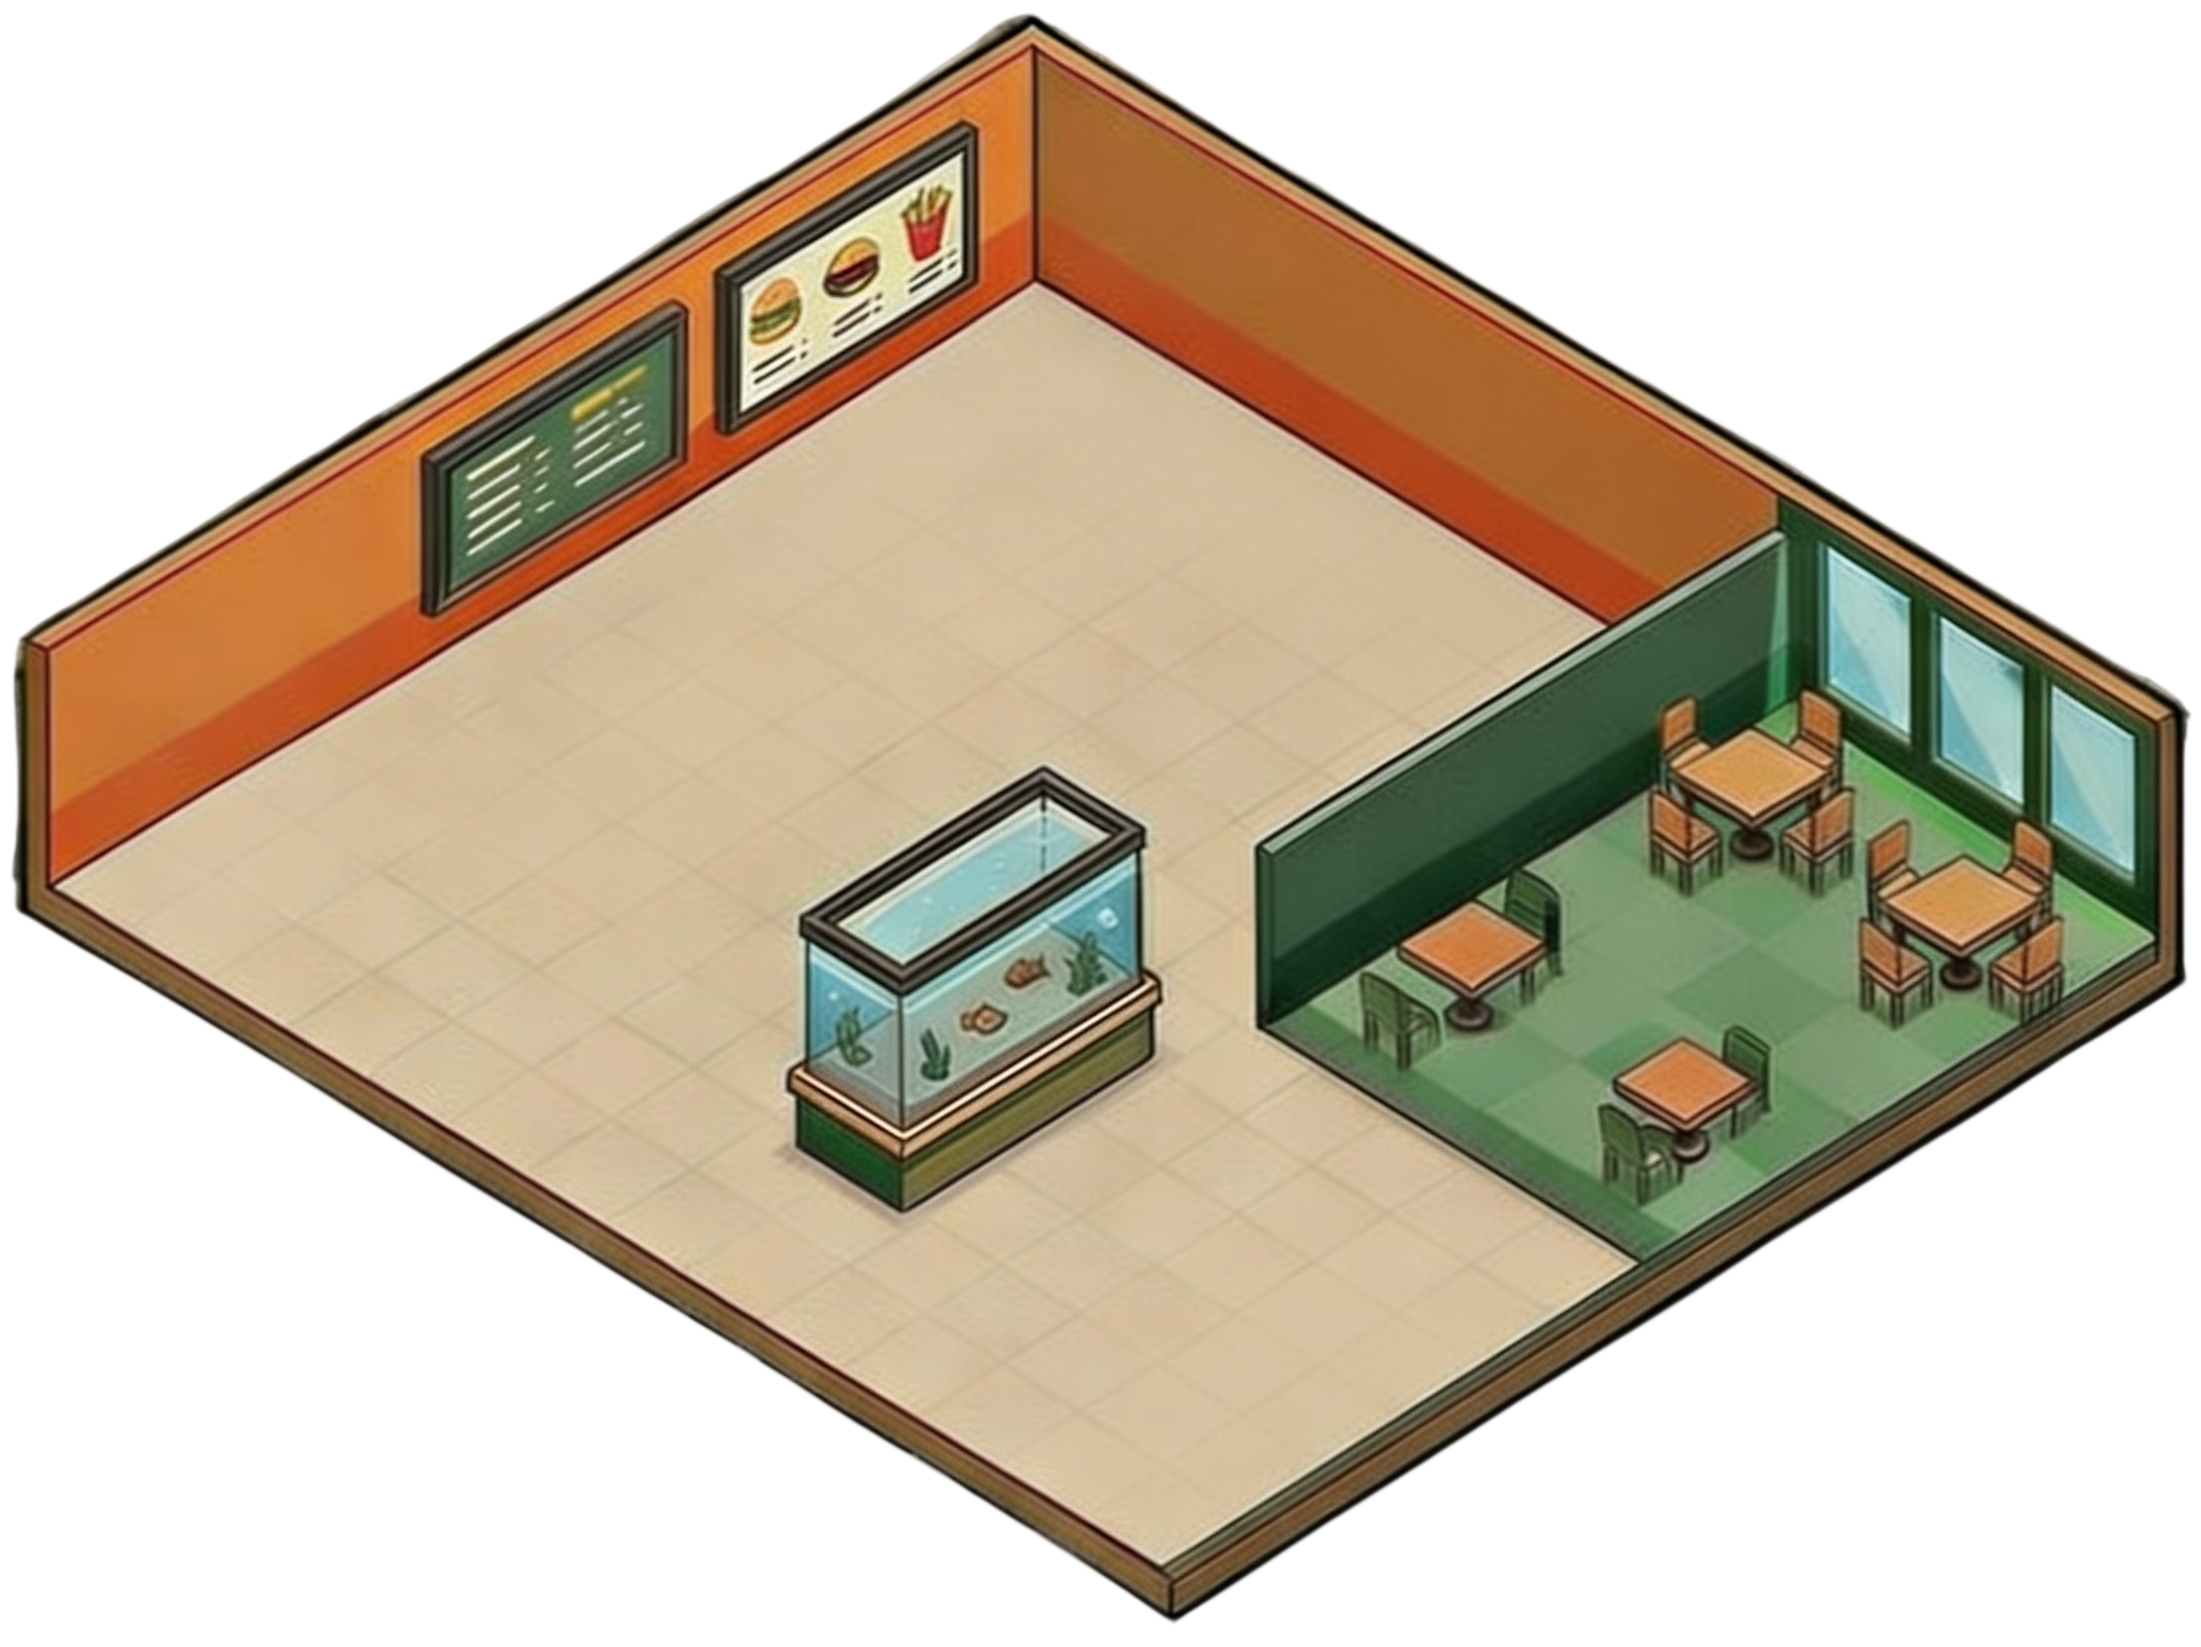
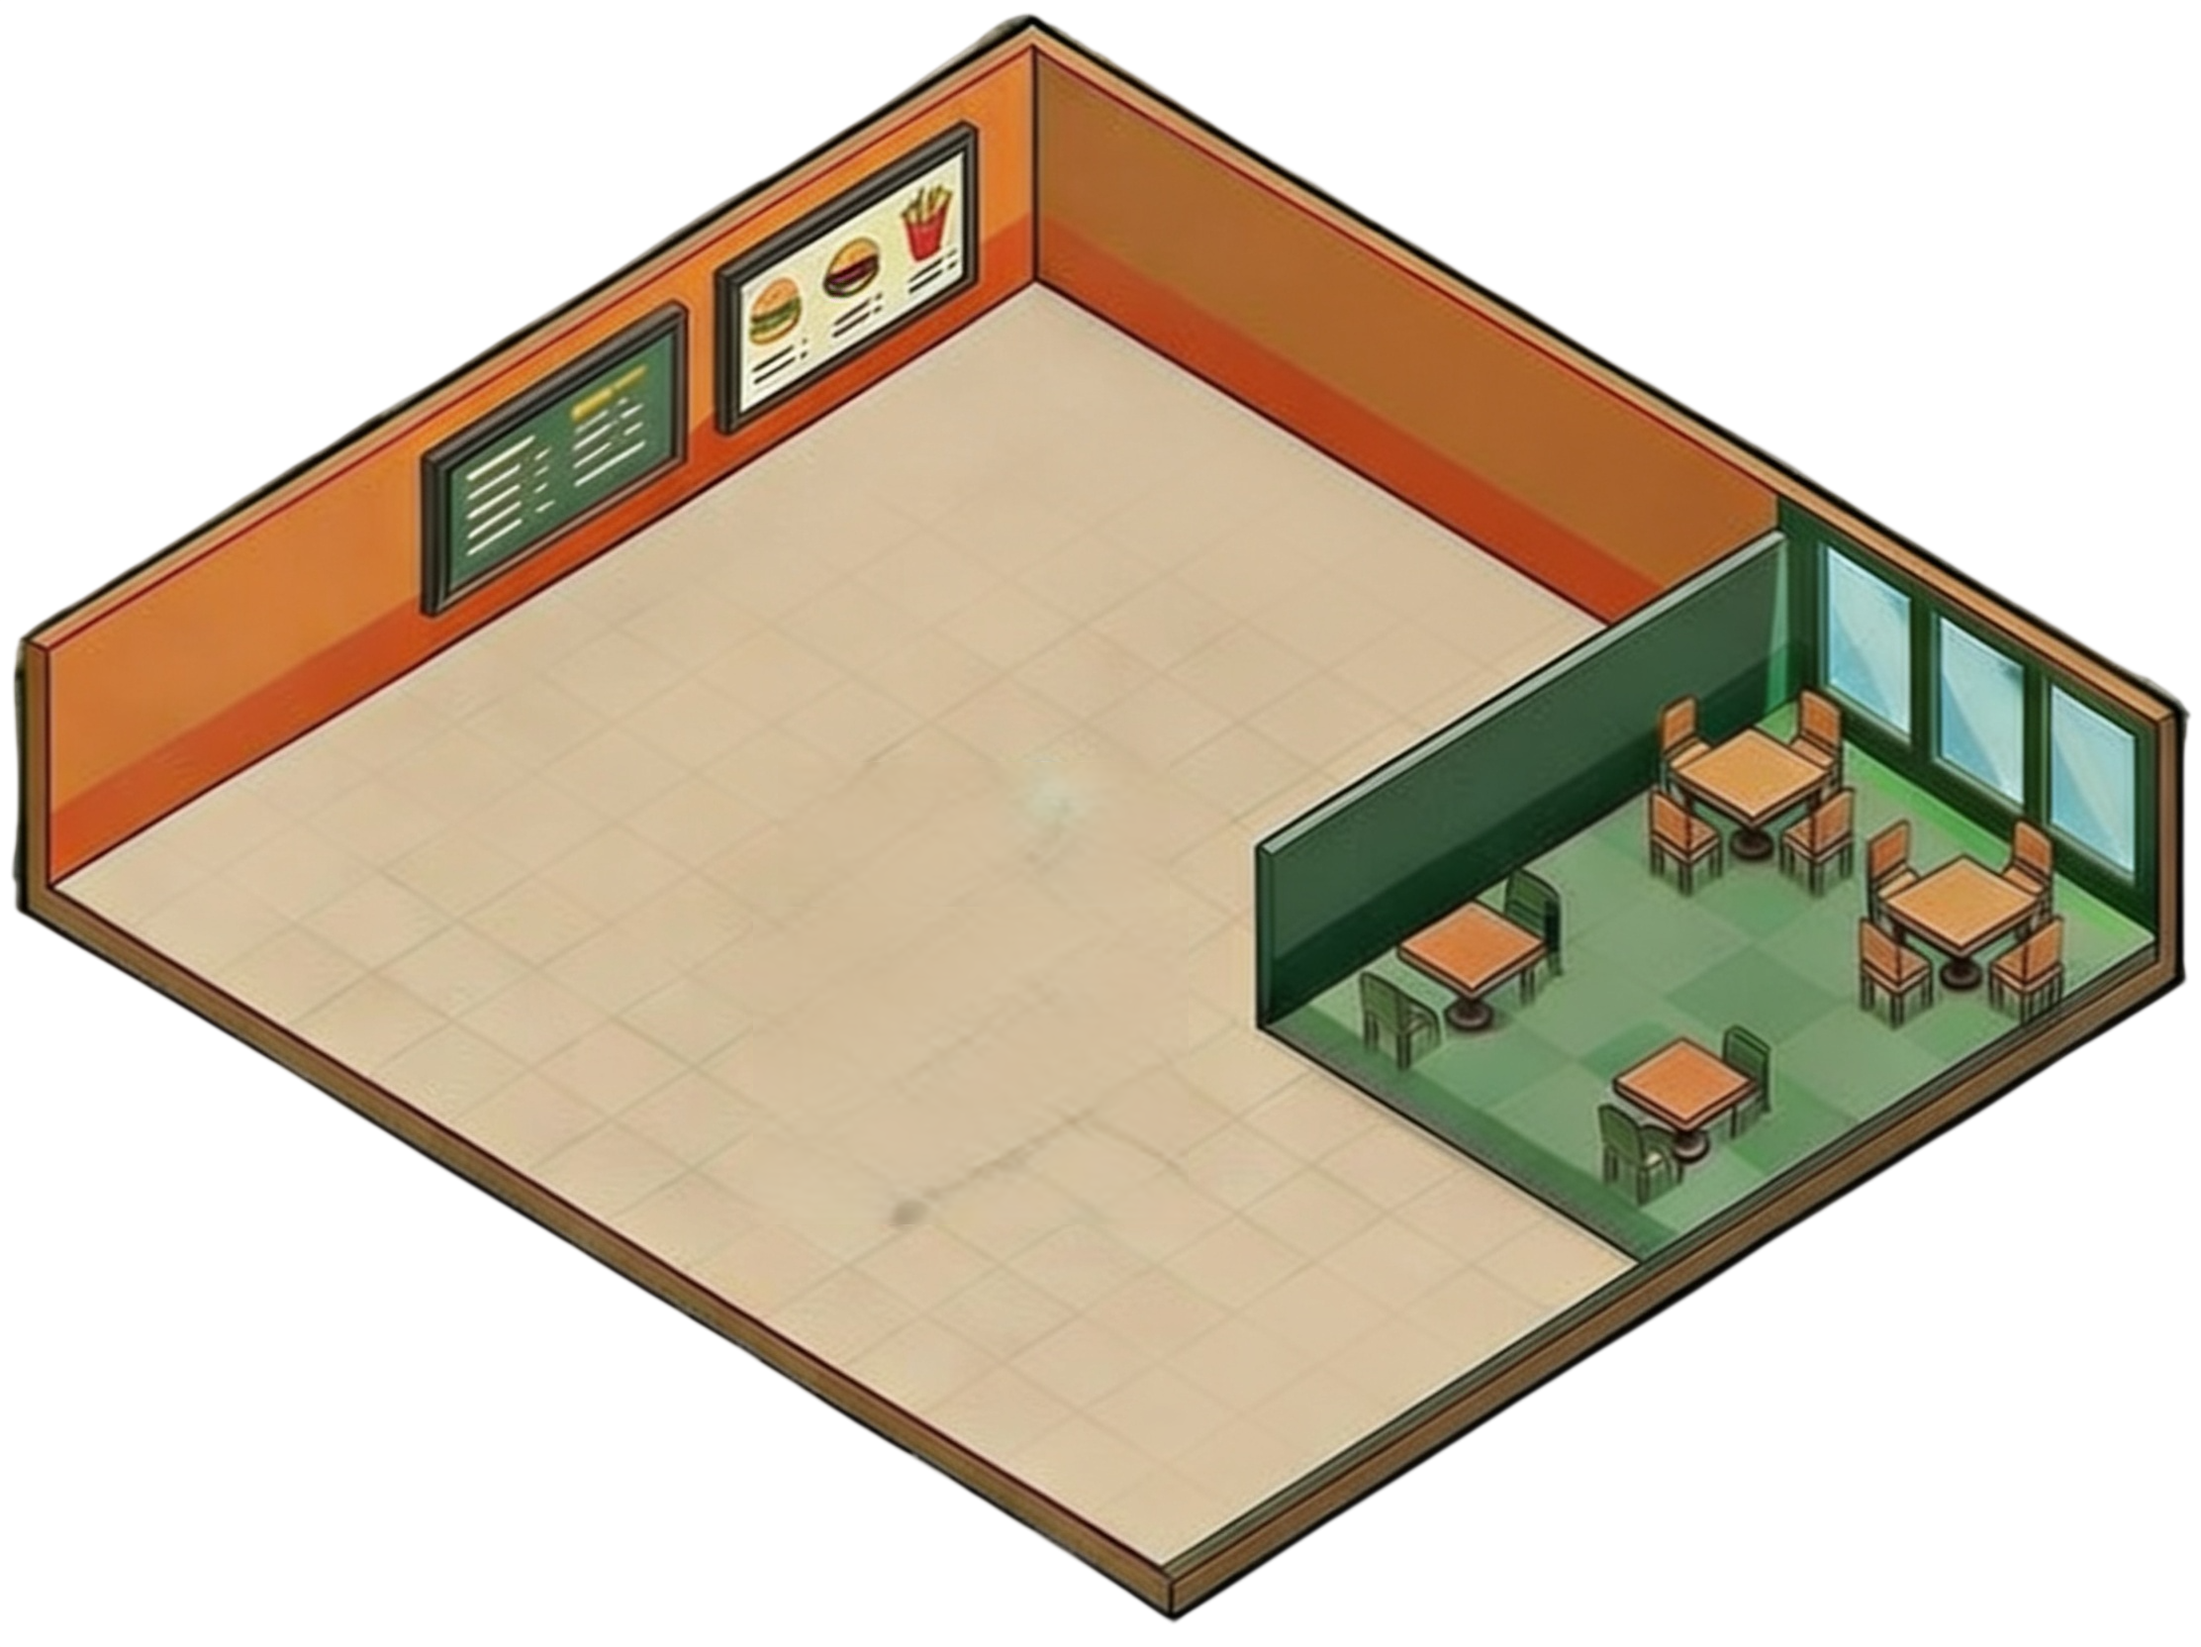
menager opens the restaurant

Changed region(s): [[0.3413, 0.4688, 0.5274, 0.75]]

diff --git a/src/components/visualization/AnimateMap.jsx b/src/components/visualization/AnimateMap.jsx
@@ -1,12 +1,53 @@
+import { useState, useEffect } from 'react';
 import { EmployeeIcon } from './EmployeeIcon';
 import { stationPositions } from '../../utils/stationPositions';
 import { useSimulationStore } from '../../store/useSimulationStore';
 
+// Константы для путей, чтобы не дублировать
+const MANAGER_PATH = {
+    start: { top: '62%', left: '69%' },
+    end: { top: '69%', left: '50%' }
+};
+
 export function AnimatedMap({ employeesByStation }) {
     const { setSelectedStationKey } = useSimulationStore();
 
+    // Состояния для этапов анимации
+    const [animationStep, setAnimationStep] = useState('manager_walking'); // 'manager_walking' | 'banner' | 'ready'
+
+    useEffect(() => {
+        // 1. Время на проход менеджера (например, 2 секунды)
+        const walkTimer = setTimeout(() => {
+            setAnimationStep('banner');
+        }, 2000);
+
+        // 2. Время показа надписи "Ресторан открыт" (еще 1.5 секунды)
+        const bannerTimer = setTimeout(() => {
+            setAnimationStep('ready');
+        }, 3500);
+
+        return () => {
+            clearTimeout(walkTimer);
+            clearTimeout(bannerTimer);
+        };
+    }, []);
+
     return (
-        <div style={{ position: 'relative', maxWidth: '1200px', margin: '0 auto' }}>
+        <div style={{ position: 'relative', maxWidth: '1200px', margin: '0 auto', overflow: 'hidden' }}>
+            {/* Стили для анимаций */}
+            <style>{`
+                @keyframes managerWalk {
+                    from { top: ${MANAGER_PATH.start.top}; left: ${MANAGER_PATH.start.left}; }
+                    to { top: ${MANAGER_PATH.end.top}; left: ${MANAGER_PATH.end.left}; }
+                }
+                @keyframes fadeInOut {
+                    0% { opacity: 0; transform: translate(-50%, -60%); }
+                    20% { opacity: 1; transform: translate(-50%, -50%); }
+                    80% { opacity: 1; transform: translate(-50%, -50%); }
+                    100% { opacity: 0; transform: translate(-50%, -40%); }
+                }
+            `}</style>
+
             {/* Фон зала */}
             <img
                 src="/assets/background.png"
@@ -20,12 +61,50 @@ export function AnimatedMap({ employeesByStation }) {
                 }}
             />
 
+            {/* МЕНЕДЖЕР (отображается только на первом этапе) */}
+            {animationStep === 'manager_walking' && (
+                <img
+                    src="/assets/animated_cook.gif"
+                    alt="Manager"
+                    style={{
+                        position: 'absolute',
+                        width: '60px',
+                        zIndex: 10,
+                        animation: 'managerWalk 2s linear forwards'
+                    }}
+                />
+            )}
+
+            {/* НАДПИСЬ "РЕСТОРАН ОТКРЫТ" */}
+            {animationStep === 'banner' && (
+                <div style={{
+                    position: 'absolute',
+                    top: '50%',
+                    left: '50%',
+                    transform: 'translate(-50%, -50%)',
+                    backgroundColor: '#0F5A3C', // Цвет бренда
+                    color: 'white',
+                    padding: '20px 40px',
+                    borderRadius: '50px',
+                    fontSize: '2rem',
+                    fontWeight: 'bold',
+                    boxShadow: '0 10px 20px rgba(0,0,0,0.3)',
+                    zIndex: 20,
+                    animation: 'fadeInOut 1.5s ease-in-out forwards'
+                }}>
+                    РЕСТОРАН ОТКРЫТ
+                </div>
+            )}
+
             {/* Станции поверх фона */}
             {Object.entries(stationPositions).map(([key, pos]) => {
                 const isCounter = key === 'C';
-                const isTS = key === 'TS'; // Новое условие
+                const isTS = key === 'TS';
 
-                const employeesBlock = (
+                // Сотрудники отображаются ТОЛЬКО после того, как ресторан открылся
+                const showEmployees = animationStep === 'ready';
+
+                const employeesBlock = showEmployees && (
                     <div style={{ display: 'flex', flexWrap: 'wrap', justifyContent: 'center', gap: '6px', margin: '8px 0' }}>
                         {(employeesByStation[key] || []).map(empId => (
                             <EmployeeIcon key={empId} employeeId={empId} />
@@ -50,7 +129,7 @@ export function AnimatedMap({ employeesByStation }) {
                         {/* 1. Человечки СВЕРХУ для прилавка */}
                         {isCounter && employeesBlock}
 
-                        {/* Картинка мебели: НЕ отображаем, если это TS */}
+                        {/* Картинка мебели: отображается всегда */}
                         {!isTS && (
                             <img
                                 src={`/assets/stations/${pos.img}`}
@@ -62,21 +141,23 @@ export function AnimatedMap({ employeesByStation }) {
                         {/* 2. Человечки СНИЗУ для остальных станций */}
                         {!isCounter && employeesBlock}
 
-                        {/* Мини-индикатор количества */}
-                        <div style={{
-                            fontSize: '0.7rem',
-                            background: 'rgba(0,0,0,0.5)',
-                            color: 'white',
-                            borderRadius: '12px',
-                            padding: '2px 6px',
-                            marginTop: '4px',
-                            display: 'inline-block'
-                        }}>
-                            {(employeesByStation[key] || []).length}
-                        </div>
+                        {/* Мини-индикатор количества (тоже только после открытия) */}
+                        {showEmployees && (
+                            <div style={{
+                                fontSize: '0.7rem',
+                                background: 'rgba(0,0,0,0.5)',
+                                color: 'white',
+                                borderRadius: '12px',
+                                padding: '2px 6px',
+                                marginTop: '4px',
+                                display: 'inline-block'
+                            }}>
+                                {(employeesByStation[key] || []).length}
+                            </div>
+                        )}
                     </div>
                 );
-            })} {/* <--- Вот эта скобка (90 строка) теперь должна закрываться корректно */}
+            })}
         </div>
     );
 }

diff --git a/src/utils/stationPositions.js b/src/utils/stationPositions.js
@@ -24,5 +24,5 @@ export const stationPositions = {
   K2: { top: '33%', left: '63%', width: '150px', img: 'kitchen.png', name: 'Кухня' },
   BVR: { top: '53%', left: '25%', width: '150px', img: 'drinks.png', name: 'Напитки' },
   FF: { top: '44%', left: '35%', width: '150px', img: 'fries.png', name: 'Фритюр' },
-  TS: { top: '62%', left: '69%', width: '4%', img: 'hall.png', name: 'Зал' }
+  TS: { top: '62%', left: '69%', width: '150px', img: 'hall.png', name: 'Зал' }
 };

diff --git a/src/components/visualization/StationCard.jsx b/src/components/visualization/StationCard.jsx
@@ -4,7 +4,7 @@ import { ProgressBar } from '../common/ProgressBar'
 const stationNames = {
   C: 'Прилавок',
   K: 'Кухня',
-  K2: 'Кухня',
+  K2: 'Кухня2',
   BVR: 'Напитки',
   FF: 'Картофель',
   TS: 'Зал'
